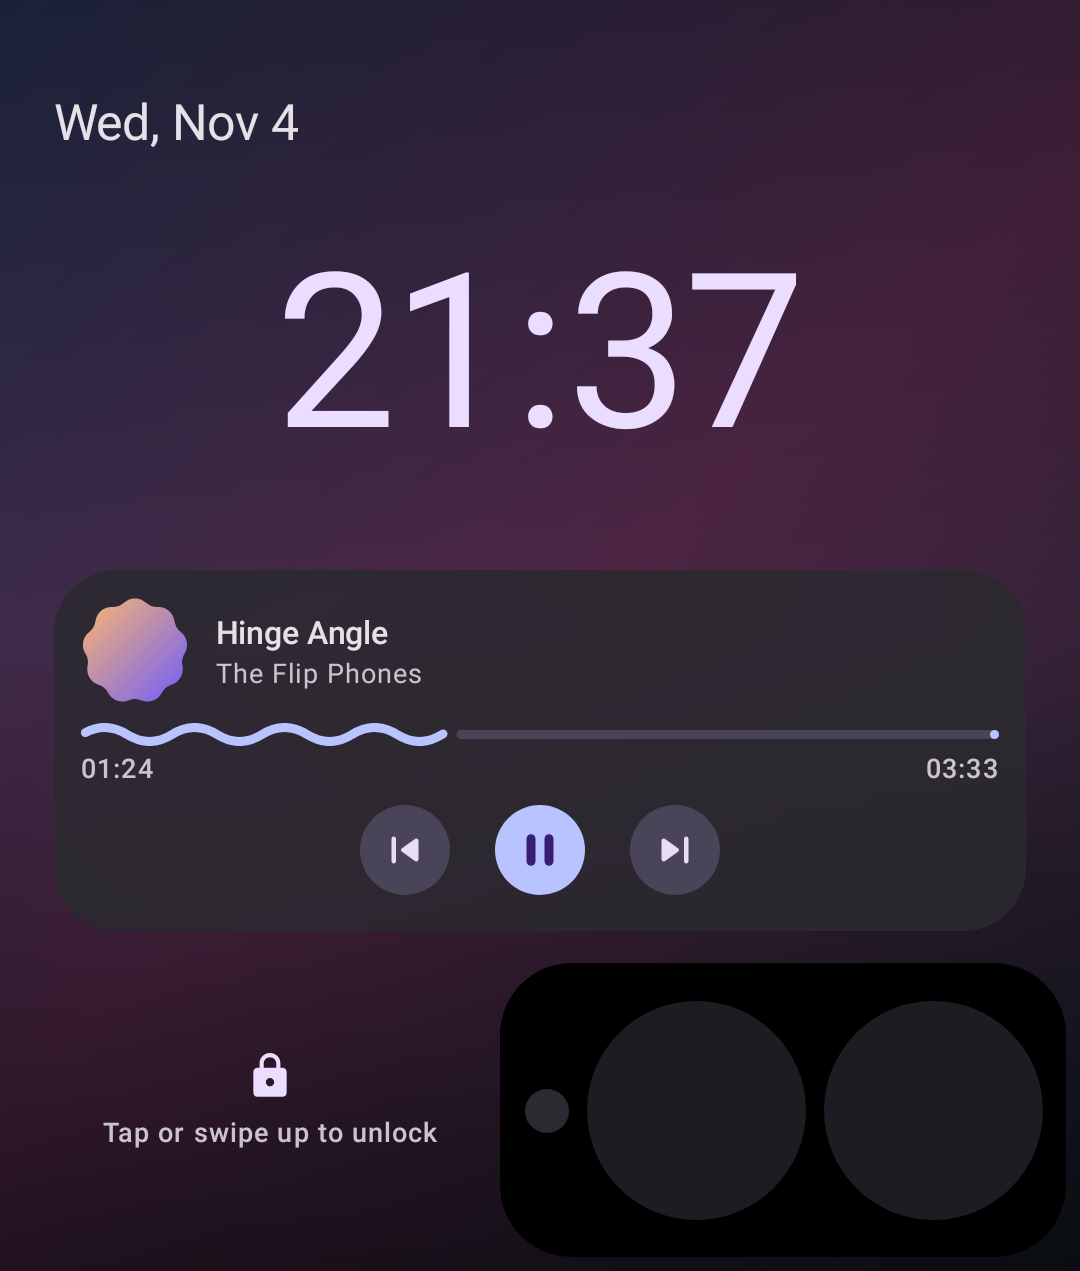
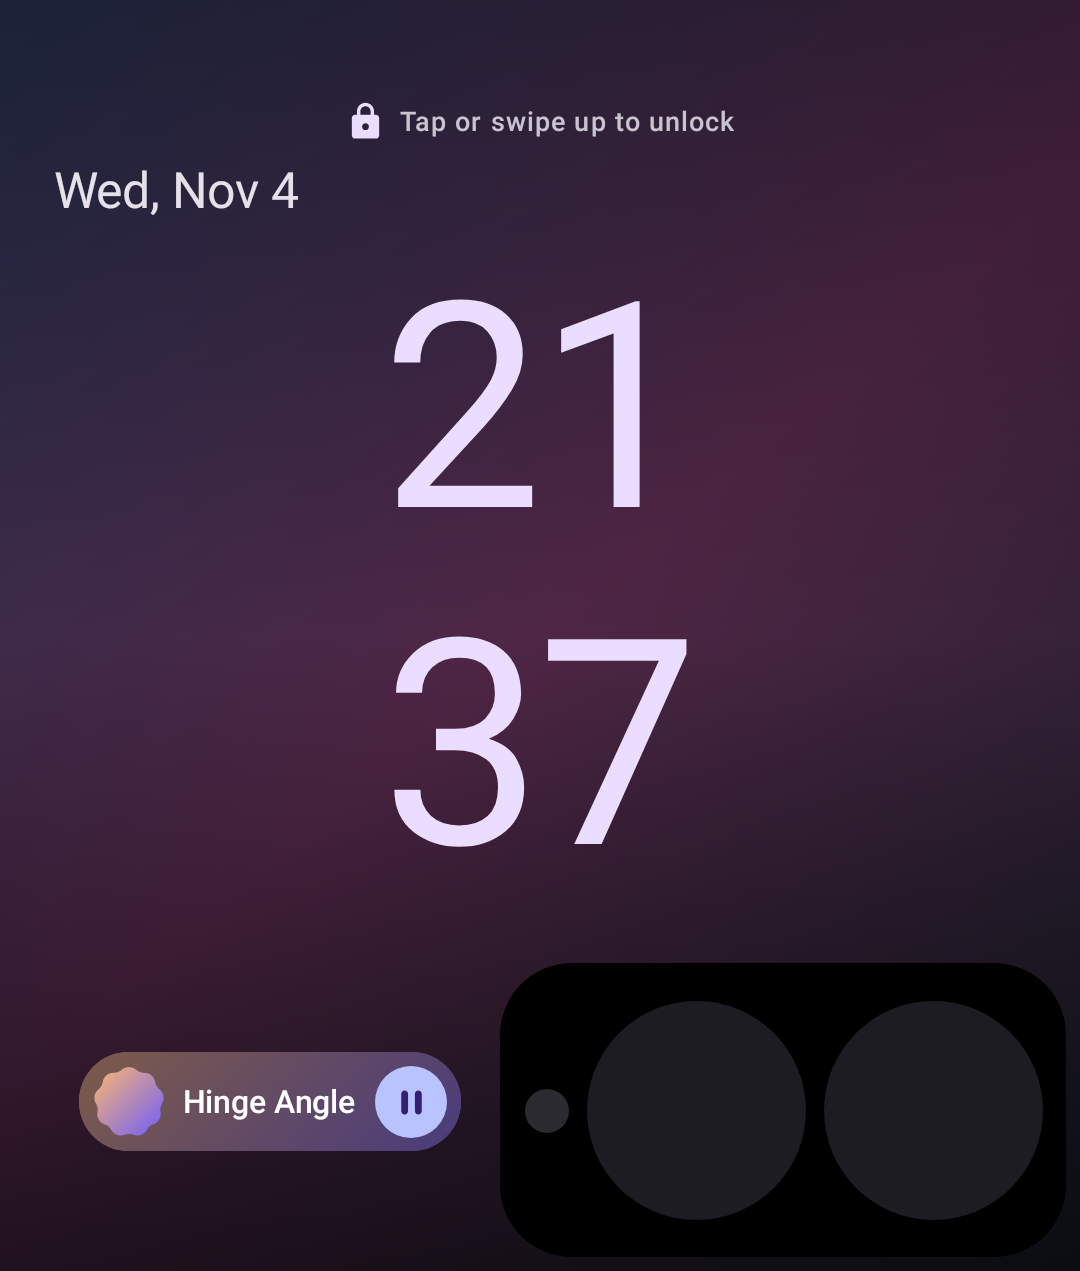
test: lock screen with chips by the cameras
The lock shots now have the hint at the top and the chips by the
cameras; a new one keeps the old layout (hint by the cameras, no chips).

diff --git a/app/src/test/java/com/tuki/flipslop/ui/CoverScreenshotTest.kt b/app/src/test/java/com/tuki/flipslop/ui/CoverScreenshotTest.kt
@@ -39,6 +39,7 @@ import com.tuki.flipslop.data.HomeStyle
 import com.tuki.flipslop.data.NotificationStyle
 import com.tuki.flipslop.data.IconShapeStyle
 import com.tuki.flipslop.data.LockConfig
+import com.tuki.flipslop.data.LockHintPosition
 import com.tuki.flipslop.data.LockLayout
 import com.tuki.flipslop.data.LockNotifications
 import com.tuki.flipslop.data.UnlockGesture
@@ -137,6 +138,13 @@ class CoverScreenshotTest {
         it.copy(notificationStyle = NotificationStyle.DETAILED)
     }
     @Test fun notificationsCompactExpanded() = shoot(CoverPage.NOTIFICATIONS, name = "notifications_compact_expanded", tapDescription = "Expand")
+    // The hint back beside the cameras and no chips there: the player stays on the page.
+    @Test fun lockedClassicStrip() = shoot(CoverPage.HOME, name = "locked_classic") {
+        it.copy(
+            locked = true,
+            lock = LockConfig(hintPosition = LockHintPosition.STRIP, stripMedia = false, stripNotifications = false),
+        )
+    }
     @Test fun lockedIdle() = shoot(CoverPage.HOME, name = "locked_idle") { it.copy(locked = true, media = null) }
     @Test fun appsCircle() = shoot(CoverPage.APPS, name = "apps_circle") { it.copy(iconShape = IconShapeStyle.CIRCLE) }
     @Test fun appsThemed() = shoot(CoverPage.APPS, name = "apps_themed") { it.copy(themedIcons = true) }
